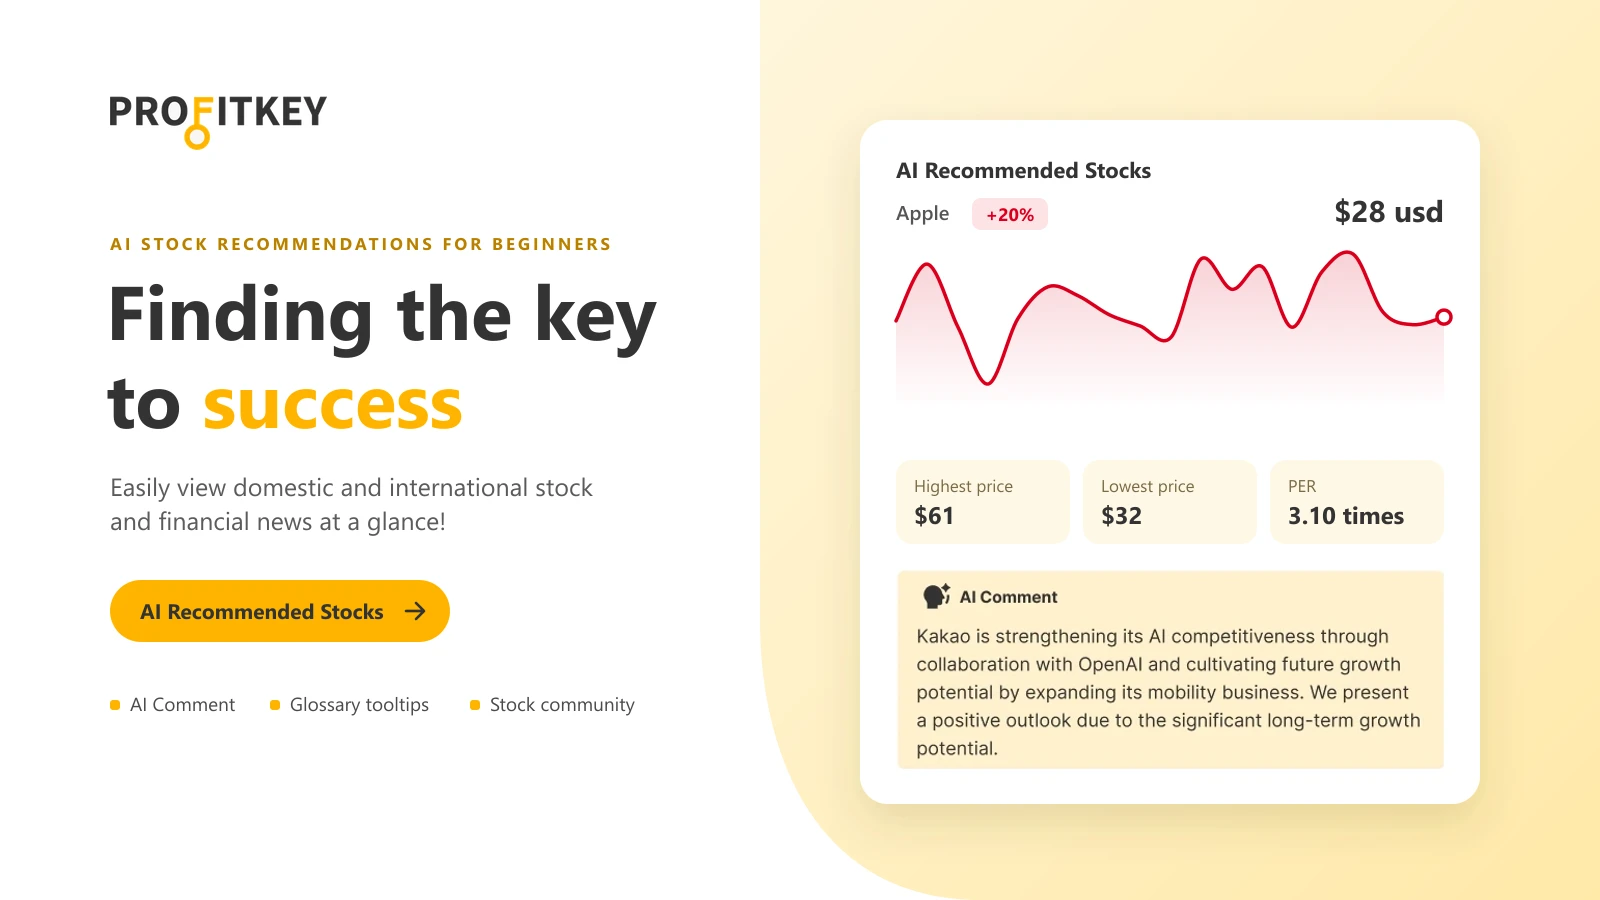
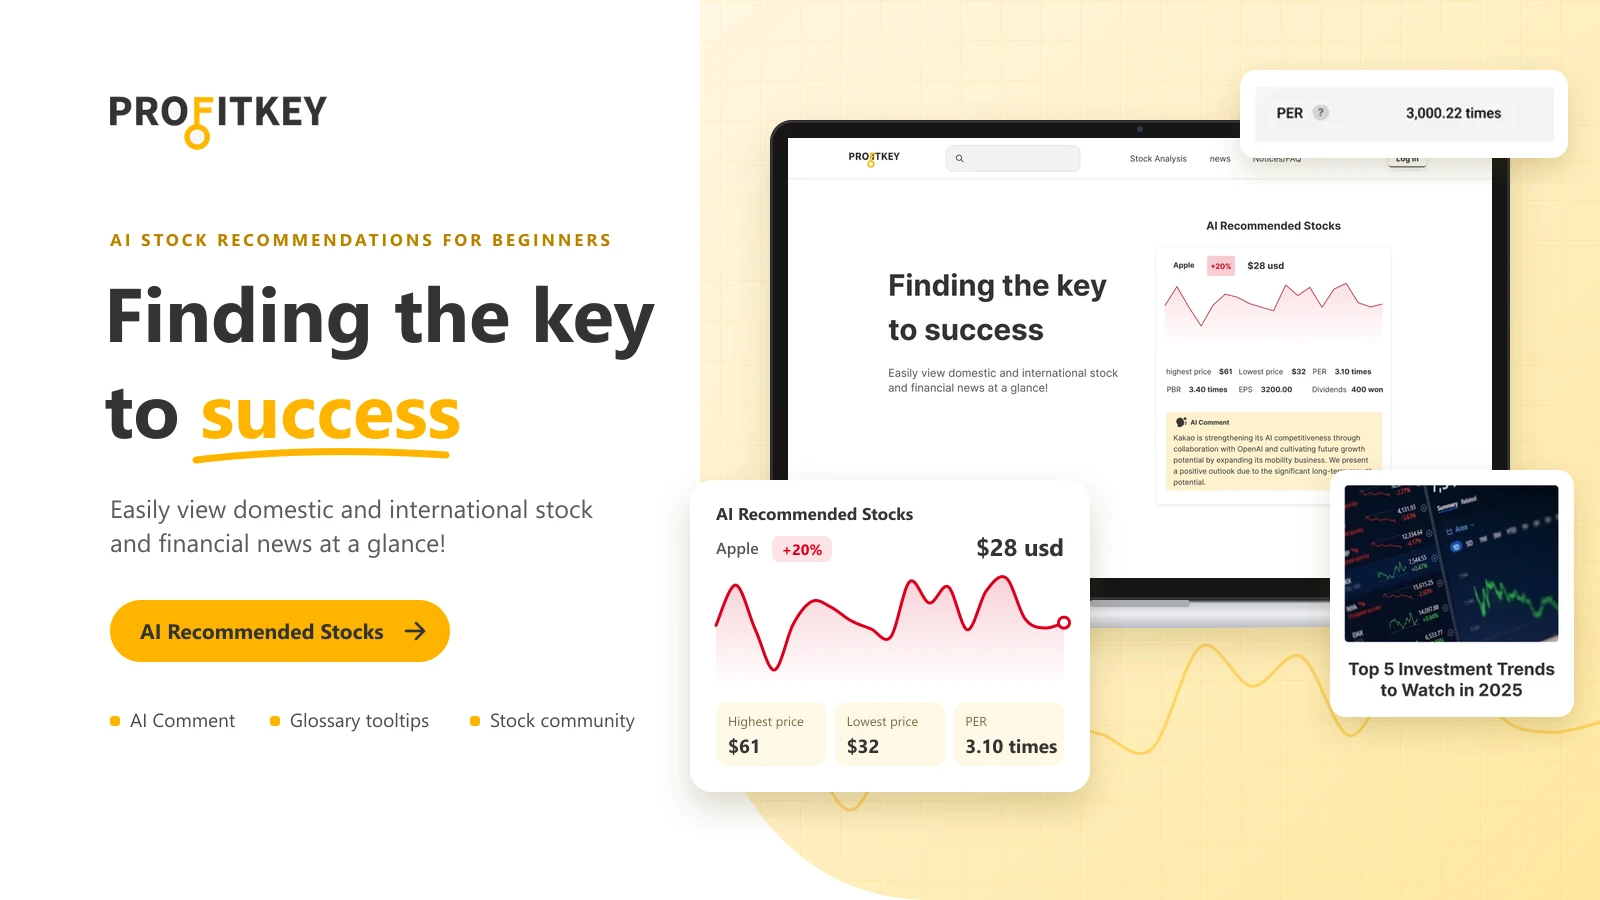
Richer PROFITKEY cover; new Cookpad cover
- PROFITKEY: the real home page in a laptop, the redrawn AI Recommended Stocks
  card floating in front, a PER glossary row and a PROFITKEY News card around
  it, a faint yellow grid and price line, a larger headline with an underline
- Cookpad: Sujin's new cover design

diff --git a/src/data/projects.ts b/src/data/projects.ts
@@ -193,8 +193,8 @@ export const projects: Project[] = glueAll<Project[]>([
     team: '6 people: 5 front end/back end engineers and 1 designer',
     tools: ['Figma'],
     // cover: built by scripts/build-profitkey-cover.mjs from the home page design
-    thumbnail: img('profitkey-cover', 'PROFITKEY cover: the logo and "Finding the key to success" with a yellow AI Recommended Stocks button, beside the AI Recommended Stocks card for Apple (+20%, $28) with its price chart, key figures and AI Comment.'),
-    hero: img('profitkey-cover', 'PROFITKEY cover: the logo and "Finding the key to success" with a yellow AI Recommended Stocks button, beside the AI Recommended Stocks card for Apple (+20%, $28) with its price chart, key figures and AI Comment.'),
+    thumbnail: img('profitkey-cover', 'PROFITKEY cover: the logo and "Finding the key to success" with a yellow AI Recommended Stocks button, beside the home page on a laptop, a floating AI Recommended Stocks card for Apple (+20%, $28) with its price chart and key figures, a PER glossary row and a PROFITKEY News card.'),
+    hero: img('profitkey-cover', 'PROFITKEY cover: the logo and "Finding the key to success" with a yellow AI Recommended Stocks button, beside the home page on a laptop, a floating AI Recommended Stocks card for Apple (+20%, $28) with its price chart and key figures, a PER glossary row and a PROFITKEY News card.'),
     theme: { accent: '#FFB400', ink: '#333333', surface: '#FFF6DE' },
     tldr: [
       { label: 'Problem', text: 'Investment beginners don’t know where to start and find securities websites full of confusing terms.' },
@@ -759,9 +759,9 @@ export const projects: Project[] = glueAll<Project[]>([
     timeline: '2024.11 to 2025.01',
     team: 'Personal project',
     tools: ['Figma'],
-    // cover: "Overview" frame (1:2139), the first Cookpad slide in the Portfolio Figma file
-    thumbnail: img('cookpad-cover', 'Cookpad UI/UX improvements project cover: the redesigned search page on a tablet and a phone.'),
-    hero: img('cookpad-cover', 'Cookpad UI/UX improvements project cover: the redesigned search page on a tablet and a phone.'),
+    // cover: Sujin's new Cookpad cover design (design-exports/cookpad-cover-2026.png)
+    thumbnail: img('cookpad-cover', 'Cookpad UIUX improvements project cover: the title and a View case study button beside the redesigned search page on a tilted tablet, with two phones showing the mobile pages.'),
+    hero: img('cookpad-cover', 'Cookpad UIUX improvements project cover: the title and a View case study button beside the redesigned search page on a tilted tablet, with two phones showing the mobile pages.'),
     theme: { accent: '#FF9934', ink: '#370000', surface: '#FFF1E3' },
     tldr: [
       { label: 'Problem', text: 'Cookpad’s ratings and user numbers were falling; users found search hard to narrow down and the UI complex.' },
